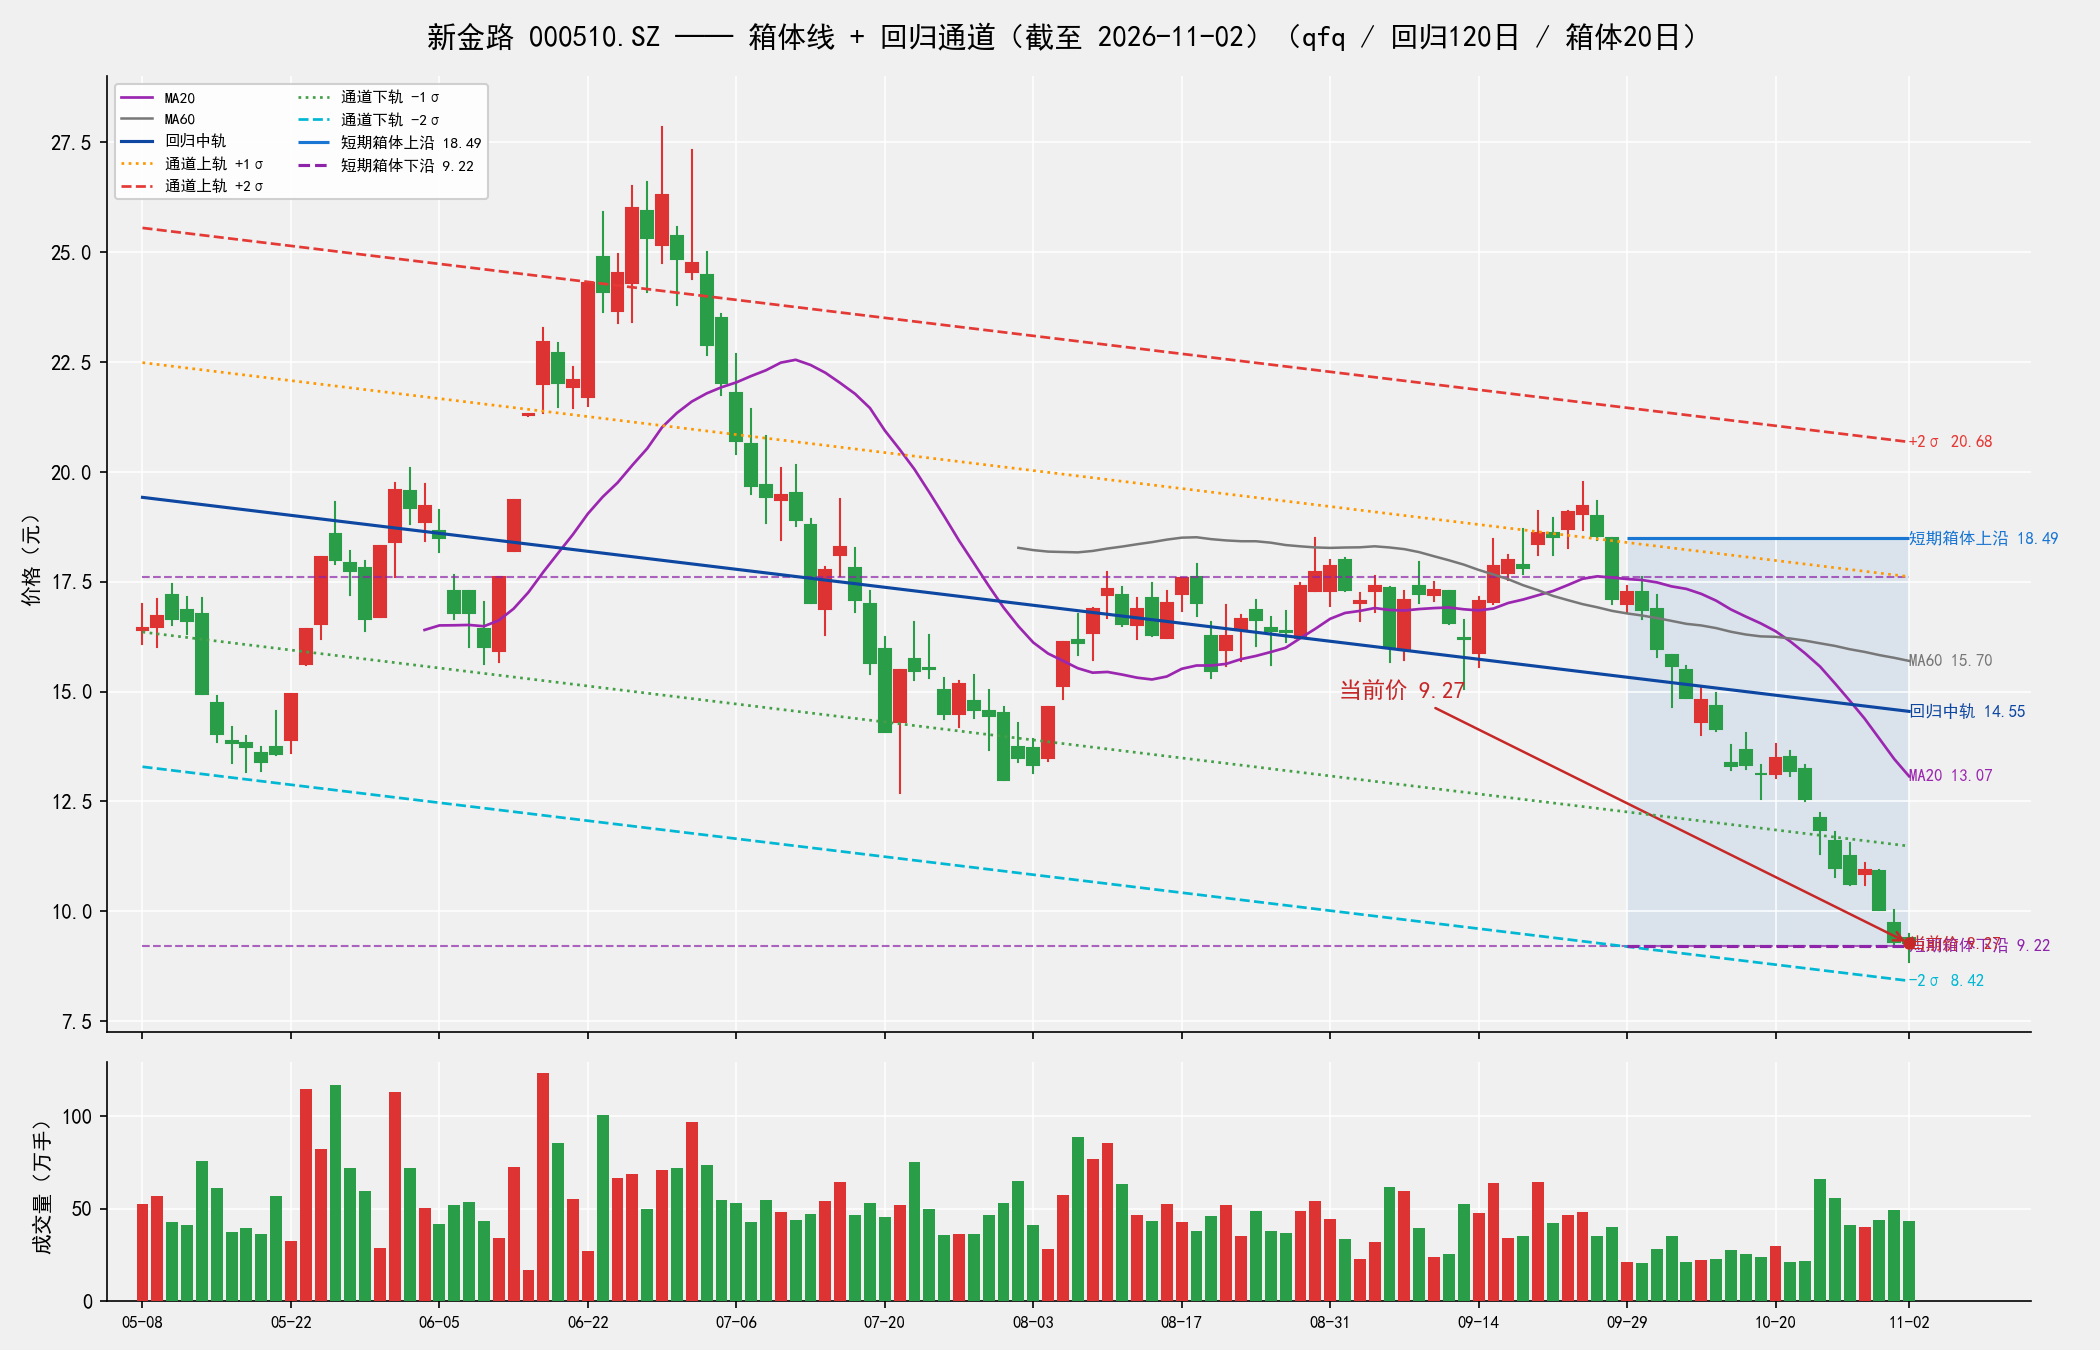
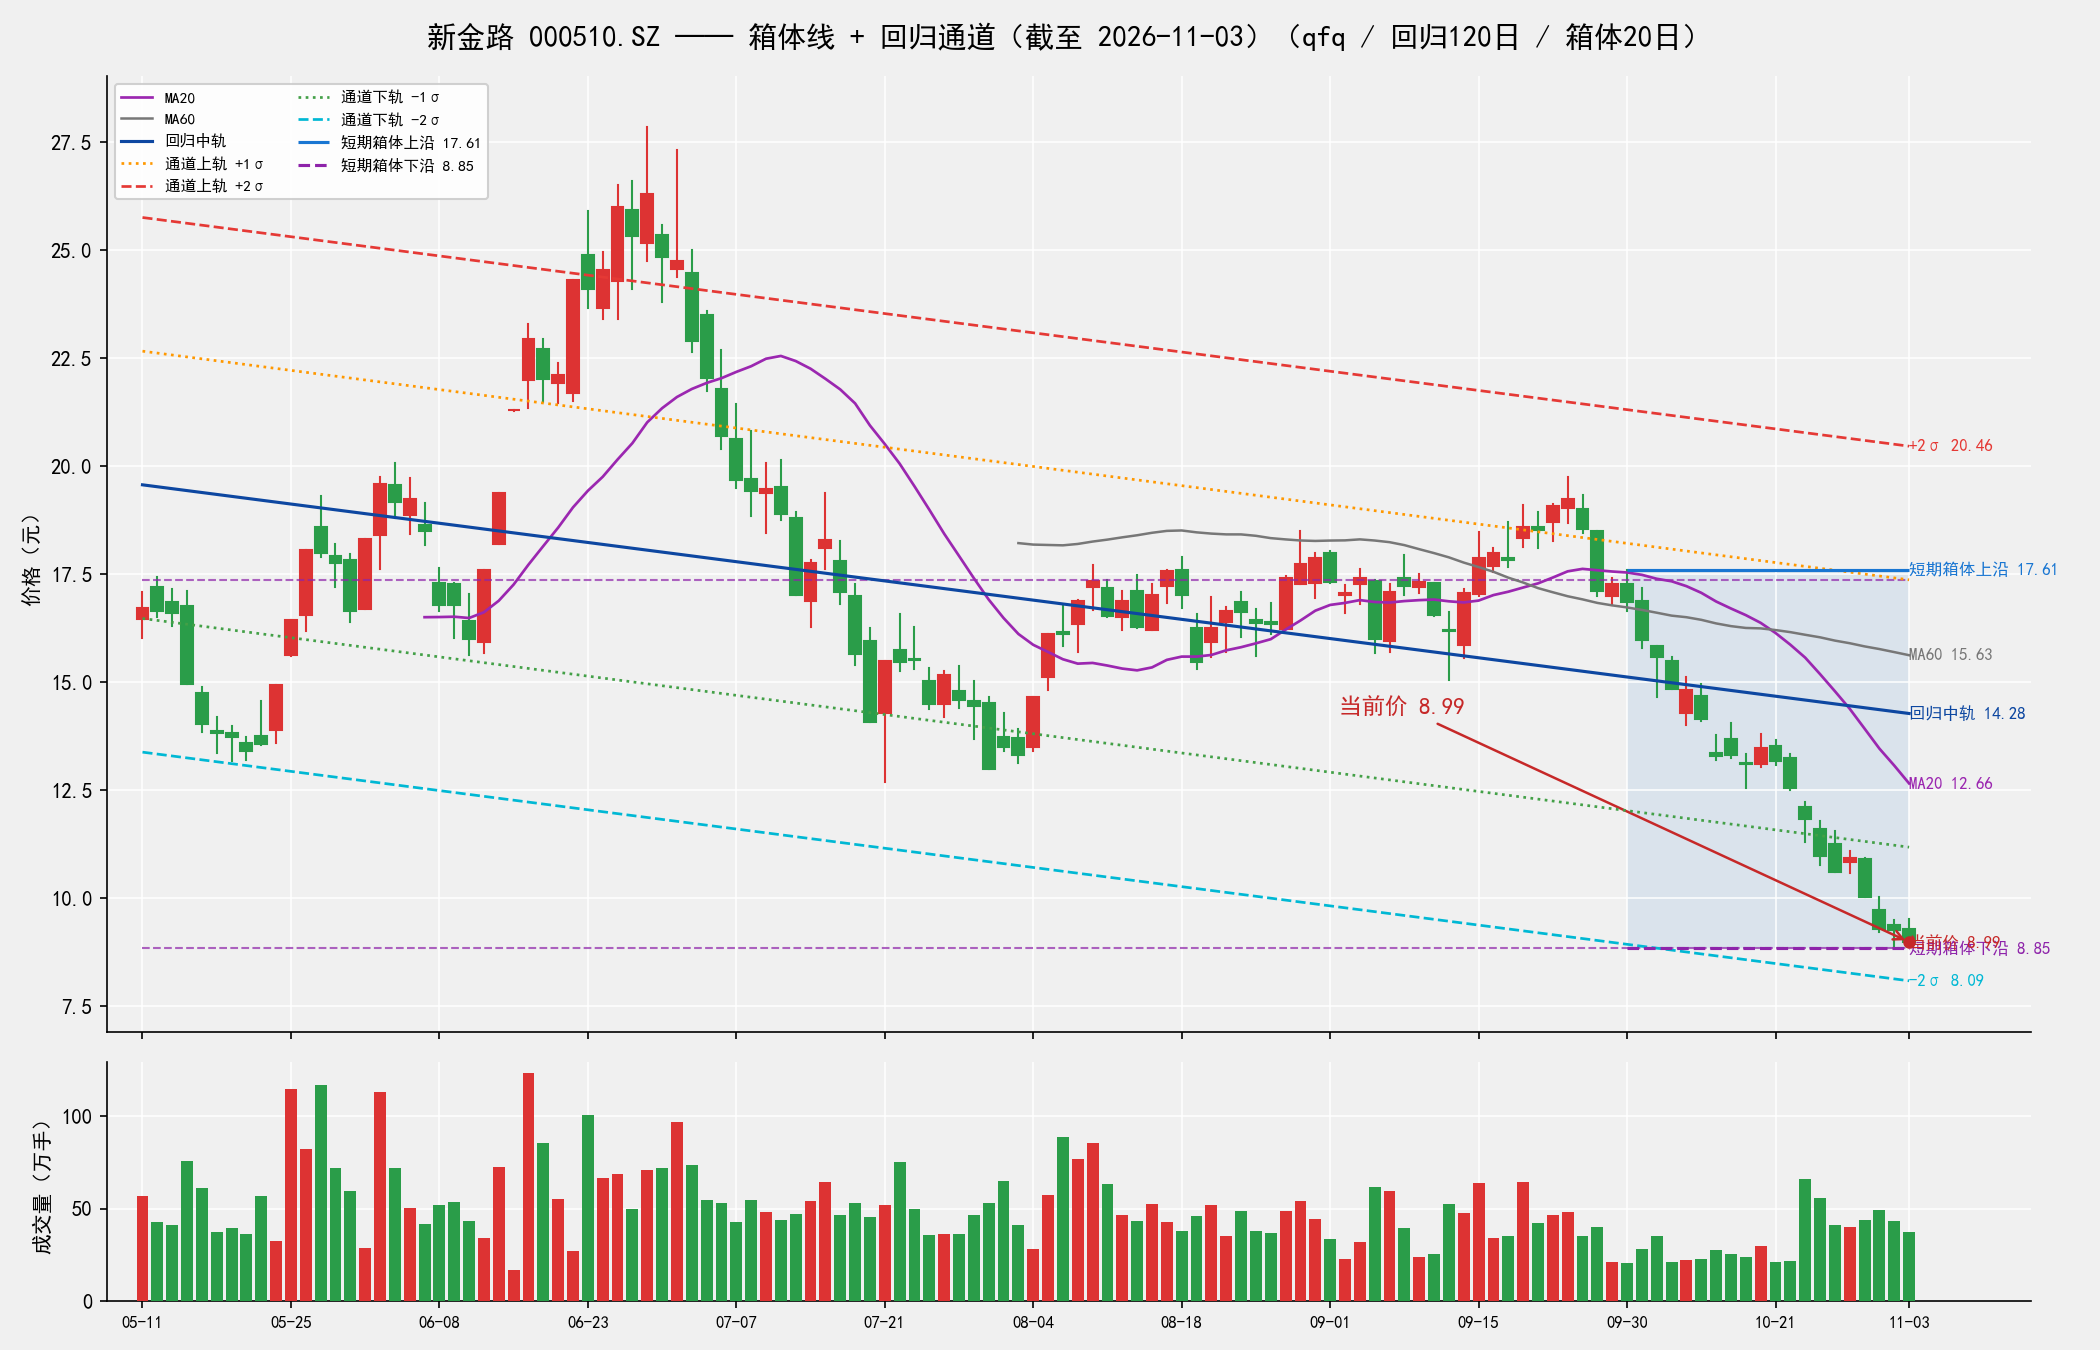
reports: 2026-11-03 自动更新

diff --git a/custom/数据掘金/2026-10-14-DrX-新金路箱体回归模拟交易.html b/custom/数据掘金/2026-10-14-DrX-新金路箱体回归模拟交易.html
@@ -80,9 +80,9 @@
 <p><strong>关键修正</strong>：10-13 日最低价 14.01 跌破原箱体下沿。修复前代码会自动把箱体下沿下移至 14.01 并继续提示买入（死锁 bug）；修复后箱体锁定在 15.68–18.98，正确识别为<strong>破位</strong>，今日<strong>不买入、空仓观望</strong>。</p>
 <p><strong>首日信号</strong>：HOLD（破位观望）。等待价格重回箱体或形成新箱体后再行动。</p>
 <h2>最新 boxreg 图（每日更新）</h2>
-<p>截至 <strong>2026-11-02 收盘</strong>重算：当前价 9.27，MA20 13.07，MA60 15.70，回归中轨 14.55，箱体 9.22–18.49，+2σ 20.68 / -2σ 8.42。此图每日 17:00 用当日收盘数据重新计算（K线、MA20/MA60、回归通道、箱体全部更新），下方每日记录中另存当日图。</p>
-<p><img alt="新金路 boxreg 最新图（2026-11-02）" src="xinjinlu_boxreg_20261102.png" /></p>
-<h2>三、每日记录</h2><details class="older-records"><summary>更早的记录（共 11 条 · 2026-10-14 至 2026-10-28，点击展开）</summary>
+<p>截至 <strong>2026-11-03 收盘</strong>重算：当前价 8.99，MA20 12.66，MA60 15.63，回归中轨 14.28，箱体 8.85–17.61，+2σ 20.46 / -2σ 8.09。此图每日 17:00 用当日收盘数据重新计算（K线、MA20/MA60、回归通道、箱体全部更新），下方每日记录中另存当日图。</p>
+<p><img alt="新金路 boxreg 最新图（2026-11-03）" src="xinjinlu_boxreg_20261103.png" /></p>
+<h2>三、每日记录</h2><details class="older-records"><summary>更早的记录（共 12 条 · 2026-10-14 至 2026-10-29，点击展开）</summary>
 
 <h3>2026-10-14（收盘）</h3>
 <ul>
@@ -172,7 +172,6 @@
 <li>本次信号：<strong>BUY（限价买入）</strong>——Box位置 0.04 ≤0.25，次日挂 T0 试探买单 8400 股 @ 10.61（盘中最低 ≤10.60 判定成交；若成交，次日再挂 T1 确认买单 5600 股，硬止损 9.72）</li>
 <li>资金：<strong>300,000.00 元（现金）</strong>，持仓 0 股；累计收益 <strong>0.00 元（0.00%）</strong></li>
 </ul>
-</details>
 <h3>2026-10-29（收盘）</h3>
 <ul>
 <li>今日行情：开 10.91 / 高 10.94 / 低 10.02 / <strong>收 10.04</strong>（-8.23%，昨日收 10.94）</li>
@@ -181,6 +180,7 @@
 <li>本次信号：<strong>T1 确认买单待明日判定</strong>——trade_plan 判定 STOP_LOSS（向下跌破箱体），但收盘 10.04 仍高于锁定硬止损 9.72，按脚本 T+1 规则明日先执行 T1 判定：挂 T1 确认买单 <strong>5600 股 @ 10.61</strong>（盘中最低 ≤10.60 判定成交；若明日判定日收盘已破硬止损则改为开盘止损，脚本以锁定硬止损 9.72 为准）</li>
 <li>资金：权益 <strong>295,185.26 元</strong>（现金 210,849.26 元 + 持仓 8400 股 × 10.04），持仓 8400 股；累计收益 <strong>-4,814.74 元（-1.60%）</strong></li>
 </ul>
+</details>
 <h3>2026-10-30（收盘）</h3>
 <ul>
 <li>今日行情：开 9.74 / 高 10.04 / 低 9.22 / <strong>收 9.30</strong>（-7.37%，昨日收 10.04）</li>
@@ -204,9 +204,19 @@
 <li>当日 boxreg 图（截至 11-02 收盘重算）：</li>
 </ul>
 <p><img alt="新金路 boxreg（2026-11-02）" src="xinjinlu_boxreg_20261102.png" /></p>
+<h3>2026-11-03（收盘）</h3>
+<ul>
+<li>今日行情：开 9.30 / 高 9.52 / 低 8.90 / <strong>收 8.99</strong>（-3.02%，昨日收 9.27）</li>
+<li>boxreg（截至今日收盘重算）：箱体 <strong>8.85–17.61</strong>（中轴 13.23）；MA20 12.66 / MA60 15.63；Box位置 <strong>0.02</strong>，收盘位于箱体下沿附近</li>
+<li>昨日信号成交情况：昨日 BUY 信号的 T0 试探买单今日成交：开盘 9.30 未触发跳空取消，盘中最低 8.90 ≤ 9.21，买入 <strong>5700 股 @ 9.22</strong>，锁定箱体 [9.22, 18.49]，硬止损 8.38</li>
+<li>本次信号：<strong>T1 确认买单待明日判定</strong>——今日收盘 8.99 高于锁定硬止损 8.38，明日挂 T1 确认买单 <strong>3800 股 @ 9.22</strong>（盘中最低 ≤9.21 判定成交；开盘跳空跌破 9.08 则取消并改挂三阶止盈单 14.55 / 16.64 / 18.49）。买入当日不可卖：今日最低 8.90 亦高于硬止损 8.38，无止损动作</li>
+<li>资金：权益 <strong>291,064.35 元</strong>（现金 239,821.35 元 + 持仓 5700 股 × 8.99），持仓 5700 股；累计收益 <strong>-8,935.65 元（-2.98%）</strong></li>
+<li>当日 boxreg 图（截至 11-03 收盘重算）：</li>
+</ul>
+<p><img alt="新金路 boxreg（2026-11-03）" src="xinjinlu_boxreg_20261103.png" /></p>
 <hr />
 <p><em>本模拟为量化研究记录，不构成投资建议。</em></p>
-<p class="meta">2026-10-14 发布 · 2026-11-02 更新 · 类型：数据掘金</p>
+<p class="meta">2026-10-14 发布 · 2026-11-03 更新 · 类型：数据掘金</p>
 <footer class="site-foot">本站内容由定时任务自动生成，仅供学习参考，不构成投资建议。</footer>
 </div>
 <div id="donatefloat">

diff --git a/archive-data.html b/archive-data.html
@@ -13,7 +13,7 @@
 <p class="back"><a href="index.html">← 全部报告</a></p>
 <p class="actions"><button type="button" onclick="window.print()">下载 PDF / 打印</button> <button type="button" class="theme-toggle">深色模式</button></p>
 <a class="card" href="custom/数据掘金/2026-10-14-DrX-新金路箱体回归模拟交易.html">
-<div class="badges"><span class="badge data">数据掘金</span><span class="badge date">2026-10-14 发布</span><span class="badge update">2026-11-02 更新</span></div>
+<div class="badges"><span class="badge data">数据掘金</span><span class="badge date">2026-10-14 发布</span><span class="badge update">2026-11-03 更新</span></div>
 <h2>DrX-新金路箱体回归模拟交易</h2>
 <p class="excerpt">DrX Quantitative Research · 2026年10月14日 · 每日 17:00 更新</p>
 <div class="meta">数据基准 2026-10-14</div>

diff --git a/index.html b/index.html
@@ -97,7 +97,7 @@
 <section id="tab-data" hidden>
 <p class="section-hint">量化分析与数据挖掘 — 把 .md / .html 按 <code>YYYY-MM-DD-标题</code> 命名放入 custom/数据掘金/ 重新构建</p>
 <a class="card" href="custom/数据掘金/2026-10-14-DrX-新金路箱体回归模拟交易.html">
-<div class="badges"><span class="badge data">数据掘金</span><span class="badge date">2026-10-14 发布</span><span class="badge update">2026-11-02 更新</span></div>
+<div class="badges"><span class="badge data">数据掘金</span><span class="badge date">2026-10-14 发布</span><span class="badge update">2026-11-03 更新</span></div>
 <h2>DrX-新金路箱体回归模拟交易</h2>
 <p class="excerpt">DrX Quantitative Research · 2026年10月14日 · 每日 17:00 更新</p>
 <div class="meta">数据基准 2026-10-14</div>

diff --git a/custom/数据掘金/2026-10-14-DrX-新金路箱体回归模拟交易.md b/custom/数据掘金/2026-10-14-DrX-新金路箱体回归模拟交易.md
@@ -51,9 +51,9 @@
 
 ## 最新 boxreg 图（每日更新）
 
-截至 **2026-11-02 收盘**重算：当前价 9.27，MA20 13.07，MA60 15.70，回归中轨 14.55，箱体 9.22–18.49，+2σ 20.68 / -2σ 8.42。此图每日 17:00 用当日收盘数据重新计算（K线、MA20/MA60、回归通道、箱体全部更新），下方每日记录中另存当日图。
+截至 **2026-11-03 收盘**重算：当前价 8.99，MA20 12.66，MA60 15.63，回归中轨 14.28，箱体 8.85–17.61，+2σ 20.46 / -2σ 8.09。此图每日 17:00 用当日收盘数据重新计算（K线、MA20/MA60、回归通道、箱体全部更新），下方每日记录中另存当日图。
 
-![新金路 boxreg 最新图（2026-11-02）](xinjinlu_boxreg_20261102.png)
+![新金路 boxreg 最新图（2026-11-03）](xinjinlu_boxreg_20261103.png)
 
 ## 三、每日记录
 
@@ -162,6 +162,16 @@
 - 当日 boxreg 图（截至 11-02 收盘重算）：
 
 ![新金路 boxreg（2026-11-02）](xinjinlu_boxreg_20261102.png)
+
+### 2026-11-03（收盘）
+- 今日行情：开 9.30 / 高 9.52 / 低 8.90 / **收 8.99**（-3.02%，昨日收 9.27）
+- boxreg（截至今日收盘重算）：箱体 **8.85–17.61**（中轴 13.23）；MA20 12.66 / MA60 15.63；Box位置 **0.02**，收盘位于箱体下沿附近
+- 昨日信号成交情况：昨日 BUY 信号的 T0 试探买单今日成交：开盘 9.30 未触发跳空取消，盘中最低 8.90 ≤ 9.21，买入 **5700 股 @ 9.22**，锁定箱体 [9.22, 18.49]，硬止损 8.38
+- 本次信号：**T1 确认买单待明日判定**——今日收盘 8.99 高于锁定硬止损 8.38，明日挂 T1 确认买单 **3800 股 @ 9.22**（盘中最低 ≤9.21 判定成交；开盘跳空跌破 9.08 则取消并改挂三阶止盈单 14.55 / 16.64 / 18.49）。买入当日不可卖：今日最低 8.90 亦高于硬止损 8.38，无止损动作
+- 资金：权益 **291,064.35 元**（现金 239,821.35 元 + 持仓 5700 股 × 8.99），持仓 5700 股；累计收益 **-8,935.65 元（-2.98%）**
+- 当日 boxreg 图（截至 11-03 收盘重算）：
+
+![新金路 boxreg（2026-11-03）](xinjinlu_boxreg_20261103.png)
 
 ---
 
